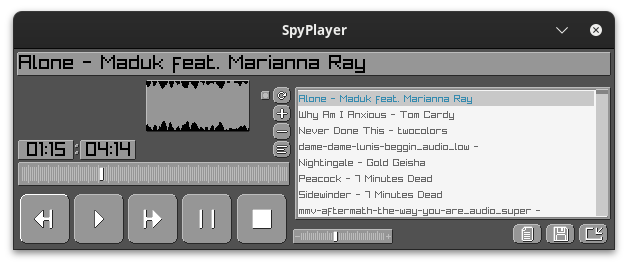
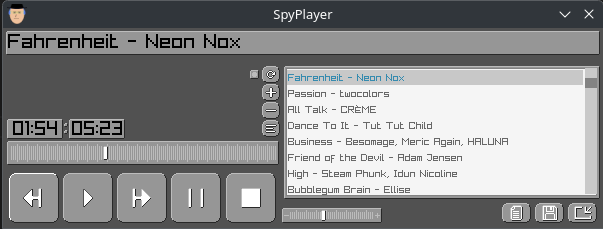
Updates feature checklist
Updates screenshot

diff --git a/README.md b/README.md
@@ -10,7 +10,7 @@ Raylib is used for playback and UI rendering. A custom Aseprite sprite sheet par
 
 This is a work in progress.
 
-I'm adding features as I go, so if you want something that isn't there, please create a pull request. I use this daily and I add feautres when I encounter a need for them.
+I'm adding features as I go, so if you want something that isn't there, please create a issue. I use this daily and I add feautres when I encounter a need for them.
 
 If you want a feature that isn't there, please create a pull request or open an issue and I'll see what I can do.
 
@@ -22,15 +22,15 @@ If you want a feature that isn't there, please create a pull request or open an 
 - [x] Current time and total time
 - [x] Play next song when finished playing current song
 - [x] Seeking
-- [x] Visualizer
-  - [x] Spectrum
-    - [x] FFT
+- [ ] Visualizer
+  - [ ] Spectrum
+    - [ ] FFT - Work in progress
 - [x] Tooltips for controls
   - [ ] Delay before showing tooltips
 - [x] Keyboard shortcuts
   - [x] Save and load key bindings
   - [x] Default key bindings
-- [ ] Playlist management
+- [x] Playlist management
   - [x] Load from folder
   - [x] Playlist showing loaded songs
   - [x] Selecting a song plays that song
@@ -39,9 +39,8 @@ If you want a feature that isn't there, please create a pull request or open an 
   - [x] Automatic loadind of playlist from config
   - [x] Automatic saving of playlist to config
   - [x] Shuffle playlist
-  - [ ] Add to playlist
-  - [ ] Remove from playlist
-  - [ ] Clear playlist
+  - [x] Add to playlist
+  - [x] Remove from playlist
 - [ ] Show metadata
   - [x] Title
   - [x] Artist
